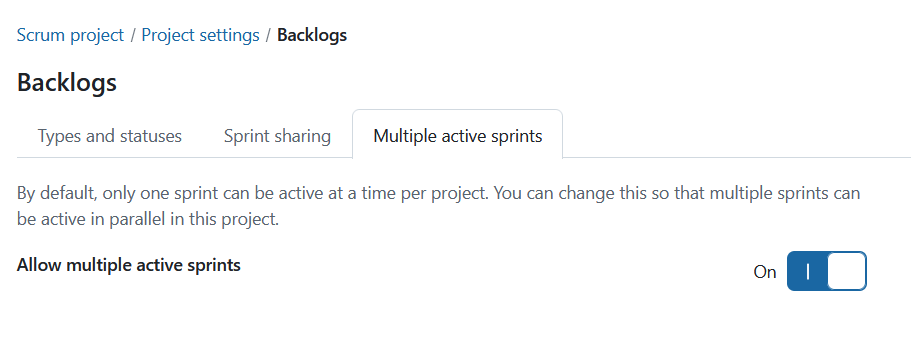
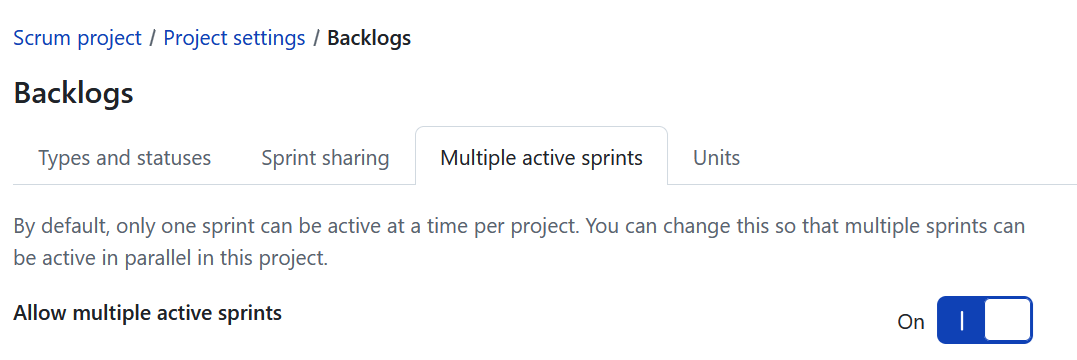
[DOCU-869] 18.0 Agile changes  https://community.openproject.org/wp/DOCU-869
[DOCU-869] 18.0 Agile changes

https://community.openproject.org/wp/DOCU-869

diff --git a/docs/user-guide/projects/project-settings/backlogs-settings/README.md b/docs/user-guide/projects/project-settings/backlogs-settings/README.md
@@ -2,8 +2,8 @@
 sidebar_navigation:
   title: Backlogs settings
   priority: 300
-description: Backlogs settings.
-keywords: backlogs settings, backlogs, types and statuses, statuses considered closed, excluded work package types, sprint sharing, sprint goal, agile, scrum
+description: Configure project-specific Backlogs settings, sprint sharing, and units for agile planning and reporting.
+keywords: backlogs settings, backlogs, types and statuses, statuses considered closed, excluded work package types, sprint sharing, sprint goal, agile, scrum, story points, velocity, effort, capacity, units, work time estimate
 ---
 # Backlogs settings
 
@@ -17,7 +17,7 @@ Under the tab **Types and statuses** you can configure which work package status
 
 You can choose the statuses that represent a closed or finished state in your workflow.
 
-These statuses are treated as closed throughout sprint planning and reporting. They are used when calculating burndown charts and determine which work packages remain in a sprint when it is completed.
+These statuses are treated as closed throughout sprint planning and reporting. They are used when calculating sprint report metrics and determine which work packages remain in a sprint when it is completed.
 
 Examples include:
 
@@ -113,3 +113,29 @@ Multiple active sprints is a **project-level setting** that allows you to enable
 > Having multiple active sprints is only possible when the project is neither sharing nor receiving sprints. To activate this setting, **Don't share** option in the sprint sharing tab must be selected. 
 
 ![Activate multiple active sprints under project settings in OpenProject](openproject_user_guide_project_settings_backlogs_allow_multiple_active_sprints.png)
+
+## Units
+
+Under the **Units** tab, you can configure the default unit of velocity, effort, and capacity to match the way your agile team plans and tracks work. This project-specific setting determines which units are displayed on cards in the backlog and in sprint report charts.
+
+You can choose between three options:
+
+- **Story points:** Cards and charts display story points. Choose this option if your team estimates work using relative effort.
+- **Work time estimate:** Cards and charts display work time estimates. Choose this option if your team estimates effort in units of time.
+- **None:** The number of work packages is used as the default unit in charts. Some sprint report charts are not displayed when this option is selected.
+
+Select the desired option and click **Save** to apply your changes.
+
+![Configure the default unit of velocity, effort, and capacity under Backlogs project settings in OpenProject](openproject_user_guide_project_settings_backlogs_units.png)
+
+For more information on how these units are used in agile reporting, see [Sprint reports](../../../backlogs-scrum/sprint-reports/).
+
+## Rebuild positions
+
+If work package positions become inconsistent within the backlog or sprints, you can rebuild them.
+
+Navigate to **Project settings → Backlogs**, open the **More** (three dots) menu in the upper-right corner and select **Rebuild positions**.
+
+![Rebuild positions option in the Backlogs project settings](openproject_user_guide_project_settings_backlogs_rebuild_positions.png)
+
+OpenProject recalculates the positions of work packages within the project while retaining their existing order wherever possible. This action does not change their backlog bucket or sprint assignments.
